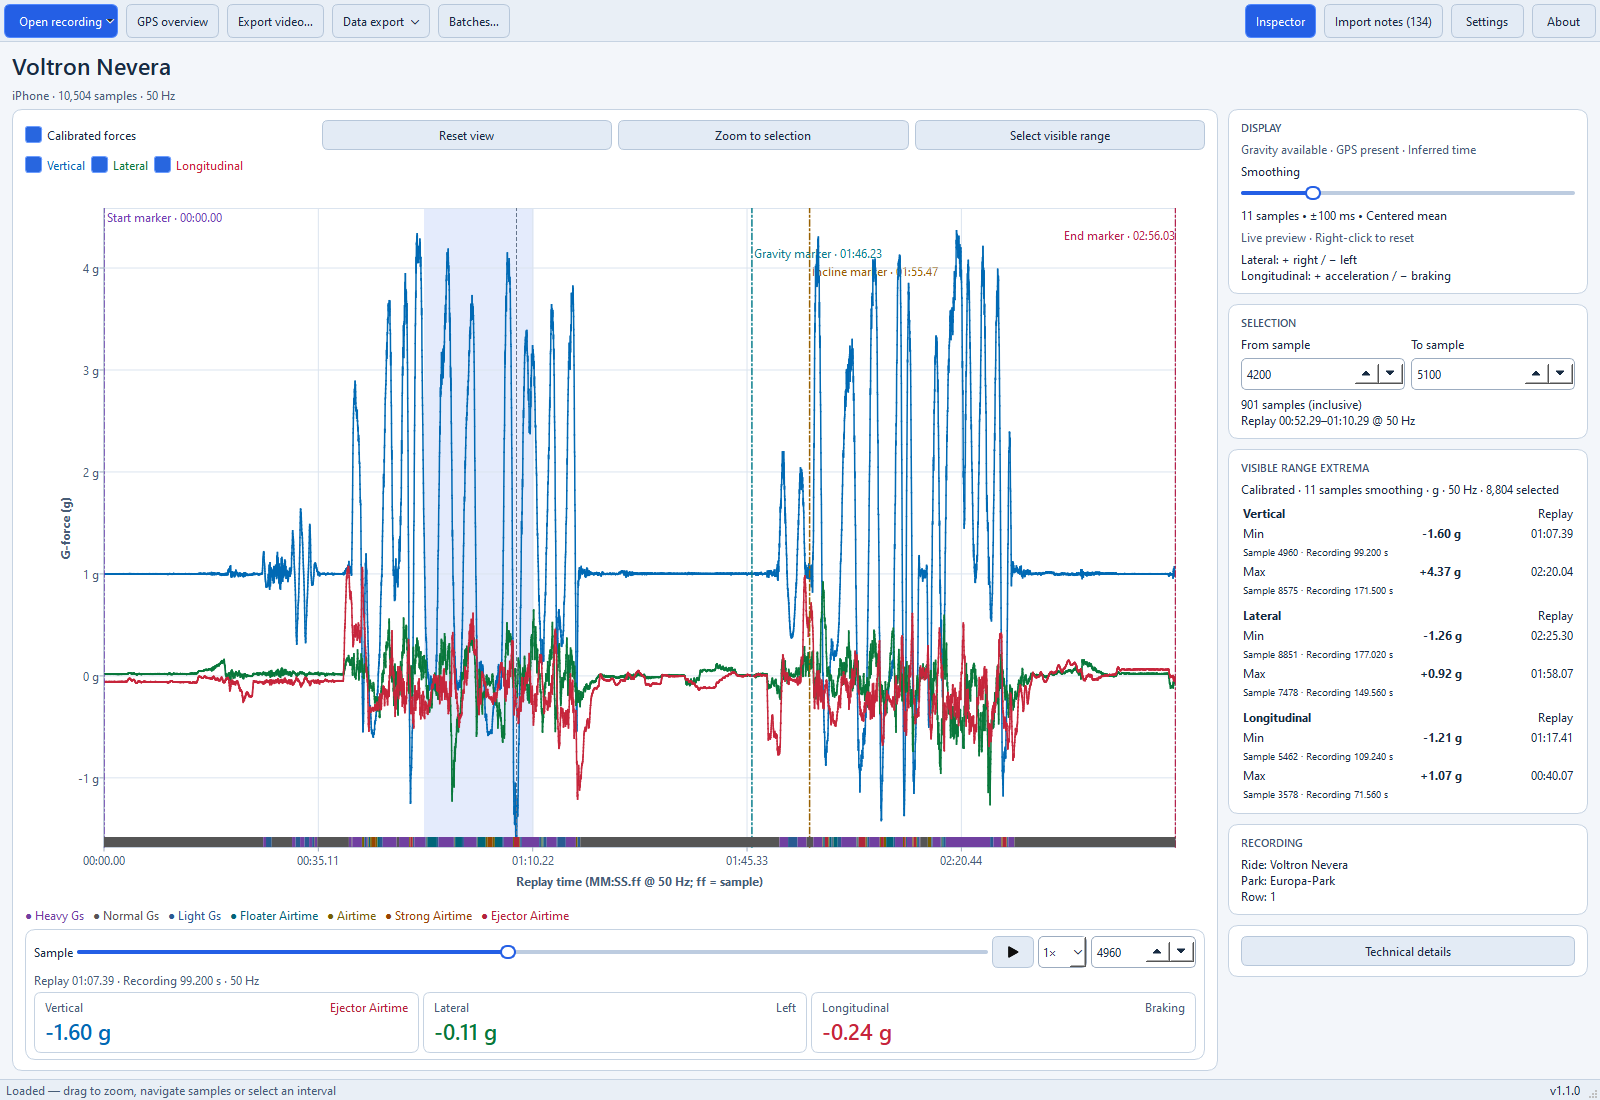
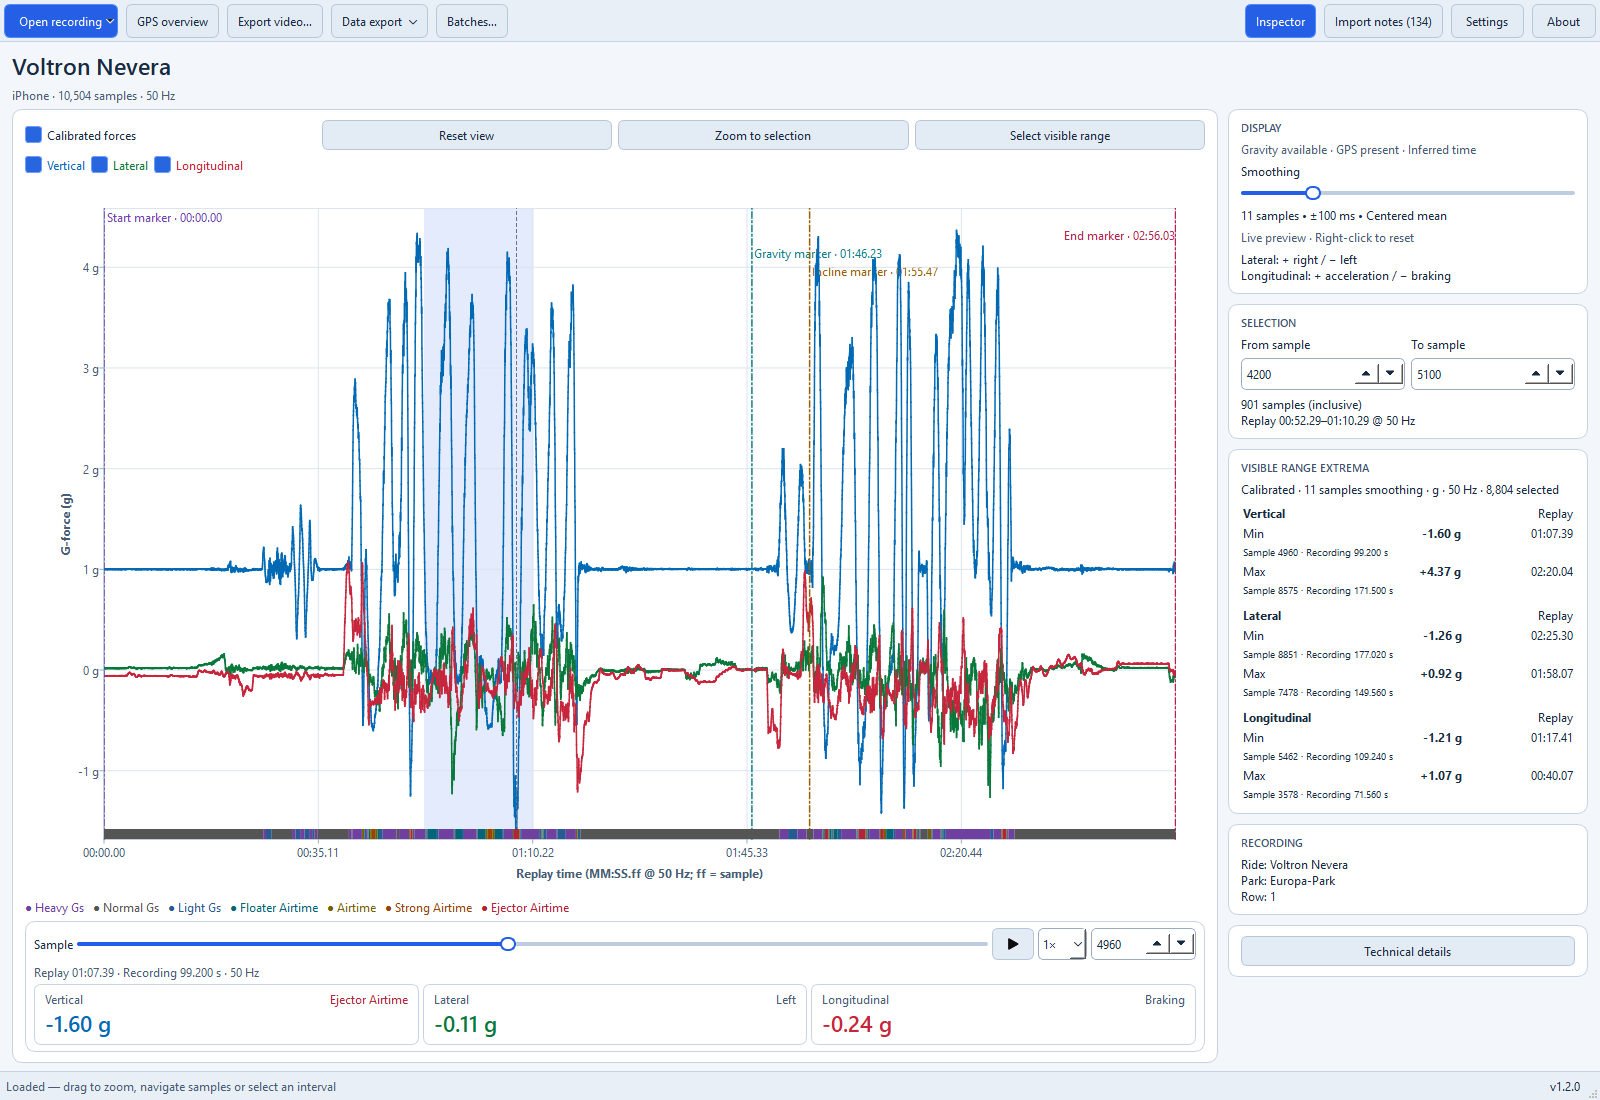
:package: build(packaging): prepare release 1.2.0
Why:
Publish the native export-area feature as stable version 1.2.0.

Changes:
- Align project/runtime versions, the root lock entry and user documentation.
- Refresh versioned screenshots through the existing guarded generators.
- Add upgrade guidance for unsupported portrait column presets and jobs.

diff --git a/src/ride_forces_analyzer/__init__.py b/src/ride_forces_analyzer/__init__.py
@@ -4,4 +4,4 @@ Copyright (c) 2026 Björn Rudner.
 SPDX-License-Identifier: GPL-3.0-or-later
 """
 
-__version__ = "1.1.0"
+__version__ = "1.2.0"

diff --git a/README.md b/README.md
@@ -45,7 +45,7 @@ No Python installation is needed. The Windows Complete ZIP includes FFmpeg for
 video export; Linux and macOS need it installed separately. Windows EXE and
 Standard ZIP downloads are also available if you prefer to use your own FFmpeg.
 
-Version **1.1.0** is a stable release. Windows and macOS may display a security warning
+Version **1.2.0** is a stable release. Windows and macOS may display a security warning
 when you first open the app.
 Follow the [installation guide](docs/user/INSTALLATION.md) for download
 verification, Linux prerequisites and first-launch instructions.

diff --git a/docs/images/README.md b/docs/images/README.md
@@ -33,7 +33,7 @@ Program code has its own GPL license; supplied recordings have a separate
 ## Image content and reproduction
 
 All images use the actual application or production renderer, in English.
-Workspace and appearance screenshots show version 1.1.0.
+Workspace and appearance screenshots show version 1.2.0.
 Checkerboards illustrate transparency and are not part of exported videos.
 HUD placement views are enlarged to illustrate a 4K editing timeline; its video
 export retains the native 1920×1080 or 1080×1920 resolution.

diff --git a/docs/development/RELEASE_NOTES.md b/docs/development/RELEASE_NOTES.md
@@ -7,3 +7,8 @@ Download the package for your system from the assets below.
 - [Known limits and planned features](https://github.com/{{REPOSITORY}}/blob/{{TAG}}/docs/ROADMAP.md)
 - [Licenses](https://github.com/{{REPOSITORY}}/blob/{{TAG}}/README.md#license)
 - [Packaging and redistribution limits](https://github.com/{{REPOSITORY}}/blob/{{TAG}}/docs/development/RELEASE.md)
+
+## Upgrade notes
+
+Four-panel column supports landscape only. Portrait presets or queued jobs for
+this layout must be recreated with landscape settings.

diff --git a/docs/user/INSTALLATION.md b/docs/user/INSTALLATION.md
@@ -5,7 +5,7 @@
 Download your platform's package and checksum file from
 [GitHub Releases](https://github.com/rudnerbjoern/ride-forces-analyzer/releases).
 The application includes Python; no Python installation or setup script is needed.
-In commands below, replace `VERSION` with the downloaded version, such as `1.1.0`.
+In commands below, replace `VERSION` with the downloaded version, such as `1.2.0`.
 
 ## Windows 10/11 x64
 

diff --git a/docs/development/RELEASE.md b/docs/development/RELEASE.md
@@ -50,7 +50,7 @@ To retry publication of an existing tag after a workflow correction, dispatch th
 current workflow from `main` with the `tag` input, for example:
 
 ```powershell
-gh workflow run source-release.yml --ref main -f tag=v1.1.0
+gh workflow run source-release.yml --ref main -f tag=v1.2.0
 ```
 
 Quality checks use the current workflow definition and check out the resolved
